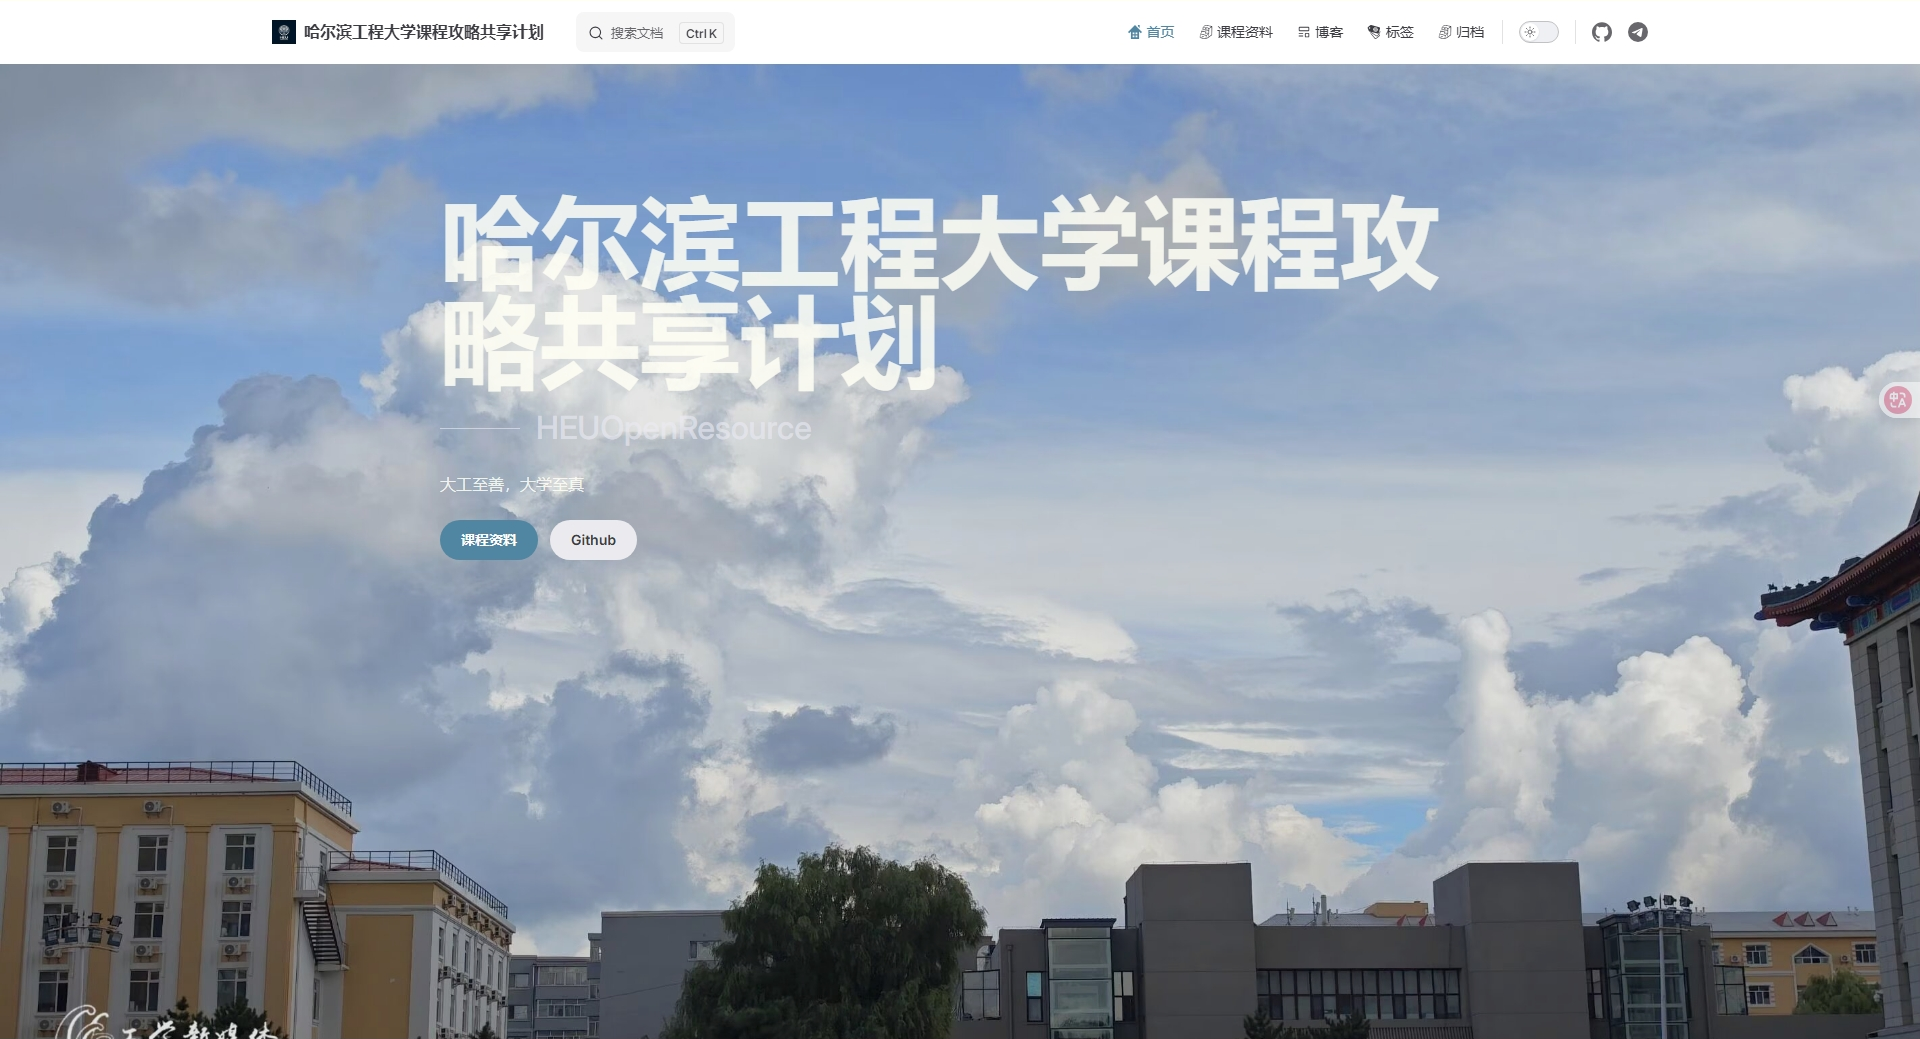
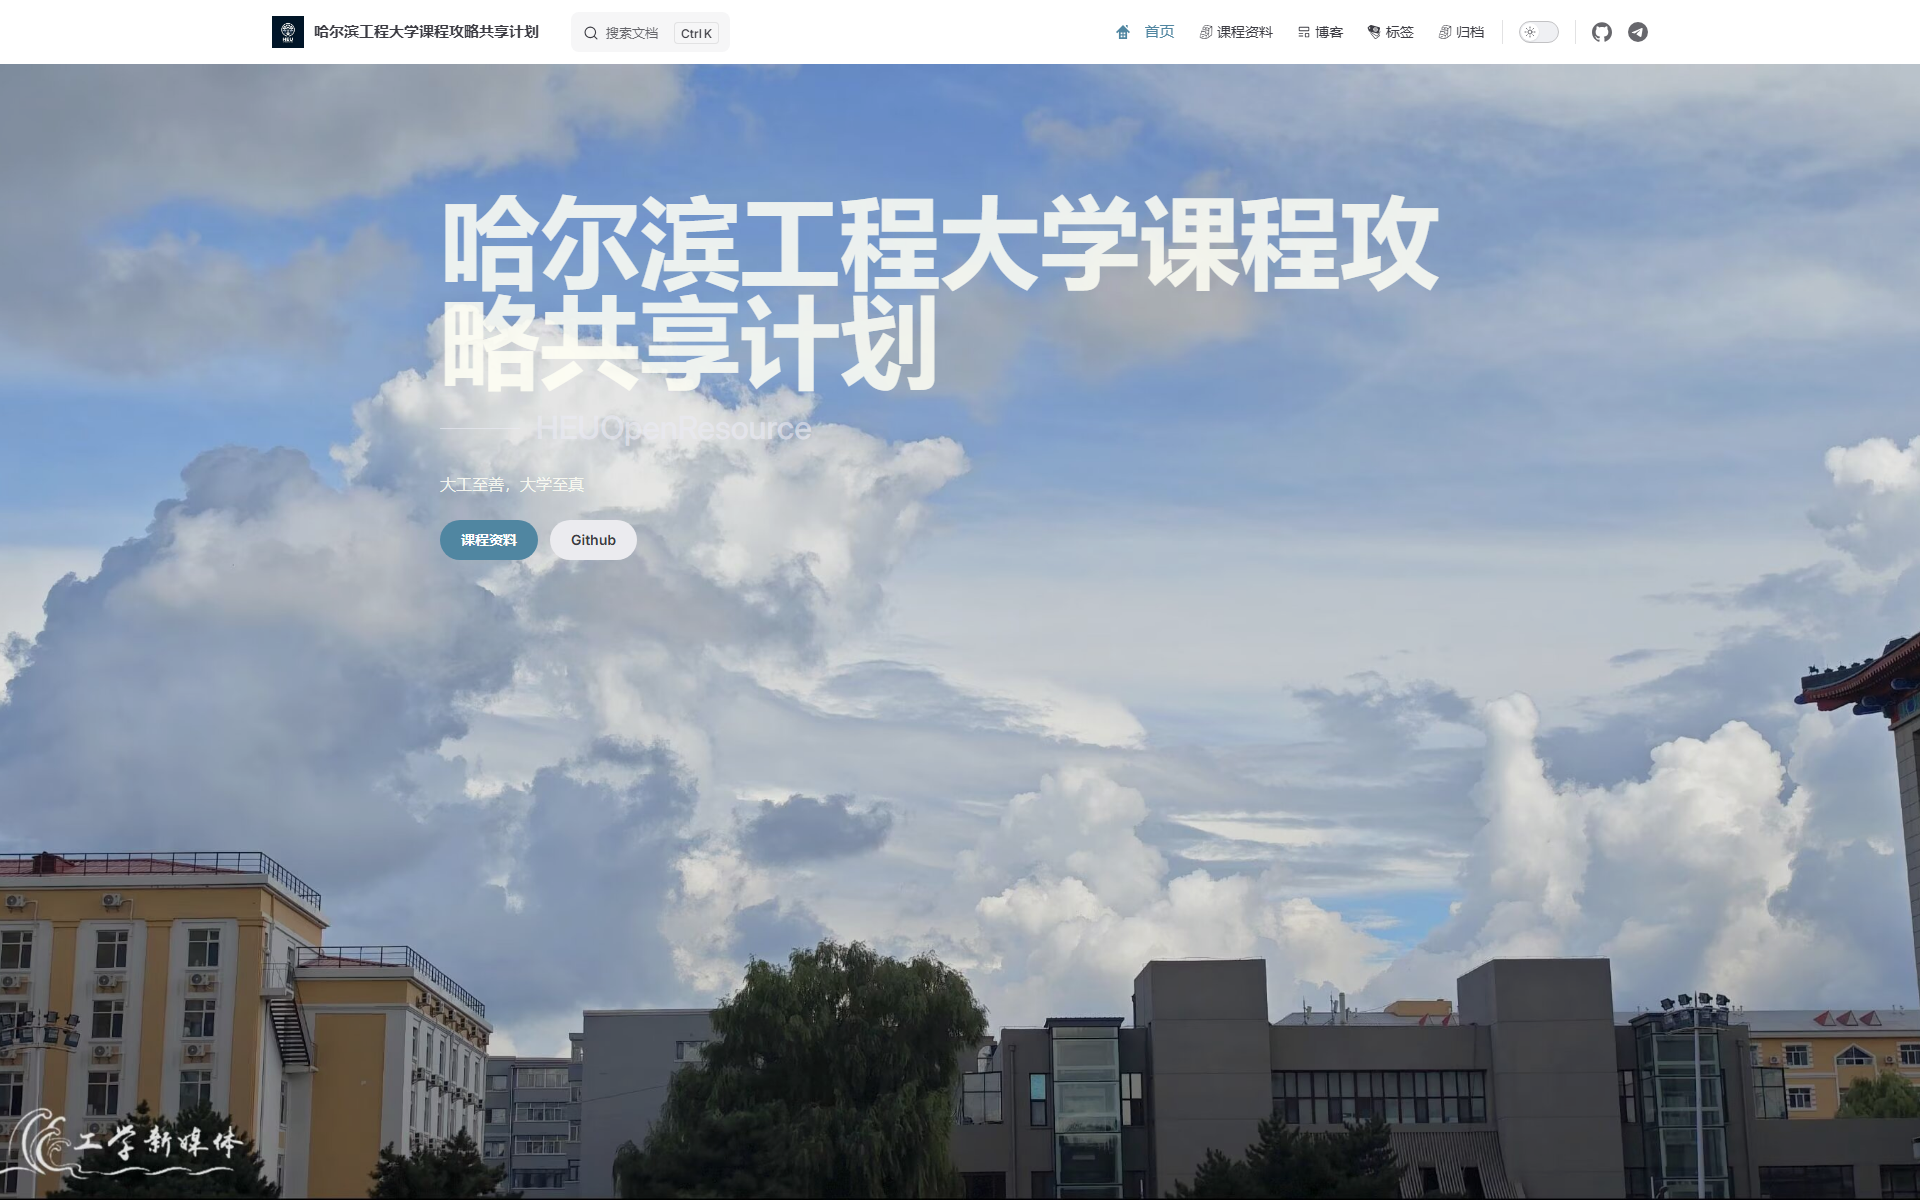
新增贡献者指南;更新网站预览图片

diff --git a/CONTRIBUTING.md b/CONTRIBUTING.md
@@ -1,0 +1,108 @@
+# 贡献指南
+
+## 概览
+
+
+- 资源列表下载页 位于 `docs/resource` 目录中进行开发维护,完整内容由项目根目录的三个py脚本生成。
+- 功能页面/博客  (~~暂时~~)位于 `docs/blog` 目录中进行开发维护,可以引入自定义组件，参考下面。
+
+
+## 开发配置
+
+开发要求（仅供参考）：
+
+[![Node.js](https://img.shields.io/badge/dynamic/json?url=https://raw.githubusercontent.com/HEUOpenResource/HEUOpenResource.github.io/main/package.json&query=$.engines.node&label=Node.js&color=339933&logo=node.js)](https://nodejs.org/)
+[![npm](https://img.shields.io/badge/npm%20%3E%3D%2011.7.0-CB3837?logo=npm)](https://www.npmjs.com/)
+
+>nodejs的安装教程自行搜索
+
+克隆代码仓库
+
+```sh
+git clone https://github.com/HEUOpenResource/HEUOpenResource.github.io.git
+```
+
+安装依赖：
+
+```sh
+npm i
+```
+
+由于前端课程资料页的科目导航列是调用Github API读取[资源仓库](https://github.com/HEUOpenResource/heu-icicles)来获取的，所以无论是在本地调试还是构建的时候都会调用这个 Github的API，为了避免速率限制，建议先去[申请](https://github.com/settings/tokens)一个Github的Token，并且在项目根目录新建一个`.env`文件,你可以这样：
+
+```sh
+cp  .env.example .env
+```
+然后把你的token填进去，最后得到的`.env`文件长这样式儿：
+
+```sh
+GITHUB_TOKEN="ghp_xxxxxxxxxxxxxxxxxxxxxxxxxxxxxxx"
+```
+
+
+### 本地调试
+
+可以直接执行
+
+```sh
+npm run docs:dev
+```
+### 生成网页
+
+构建源代码需要执行：
+
+```sh
+npm run docs:build
+```
+
+### 【本地】完整预览或构建网页
+
+> 首先得安装python，最新的版本应该就行（仓库自动化构建时使用的3.13版本），详细安装教程自行搜索
+
+此时需要拉取完整的资源仓库文件列表、贡献者，然后生成对应的markdown到对应的文件夹中，此时我们就需要像本仓库的workflow文件那样运行python脚本了：
+
+```yml
+      # 如果 update.py 依赖第三方库，取消注释此步
+      - name: 📦 安装 Python 依赖
+        run: pip install -r requirements.txt
+
+      # 执行项目根目录的 update.py
+      - name: 🛠 更新资料表以及正常贡献者
+        env:
+          GITHUB_TOKEN: ${{ secrets.GITHUB_TOKEN }}
+        run: python update.py
+
+      # 执行项目根目录的 addContributors.py（细分到每一个科目） 、allContributors.py（“介绍”页面中显示）
+      - name: 👥 添加非Github贡献者
+        env:
+          GITHUB_TOKEN: ${{ secrets.GITHUB_TOKEN }}
+        run: |
+          python addContributors.py
+          python allContributors.py
+```
+
+可以看到，当执行python脚本的时候也需要环境变量中含有GITHUB_TOKEN，为了方便开发调试，我们引入了python包：`python-dotenv`,在执行py脚本的时候也会自动读取项目根目录的.env文件中的环境变量，这和上面配置的.env是一样的，只需要配置一次即可。
+
+所以在执行py脚本之前不要忘了安装这个包，只需要执行：
+
+```sh
+pip install -r requirements.txt
+```
+
+然后执行脚本：
+
+```sh
+python update.py
+python addContributors.py
+python allContributors.py
+```
+
+执行完这些python脚本之后，再次本地调试或者预览即可。
+
+### 【在线】调试
+
+这个在线环境免登录即可查看
+[https://stackblitz.com/github/HEUOpenResource/HEUOpenResource.github.io](https://stackblitz.com/github/HEUOpenResource/HEUOpenResource.github.io)
+但是有时候不太方便，建议还是将代码拉取到本地进行调试
+
+

diff --git a/README.md b/README.md
@@ -7,3 +7,22 @@
 资源仓库：[https://github.com/HEUOpenResource/heu-icicles](https://github.com/HEUOpenResource/heu-icicles)
 
 ![https://heu.us.kg](./docs/.vuepress/public/intro.png)
+
+
+## 贡献指南
+
+本仓库使用的是[vuepress](https://vuejs.press/)框架的[plume主题](https://theme-plume.vuejs.press/)
+
+如果你会vue3框架，可以自己编写vue3组件给网站增加新功能~
+
+下面是该仓库的关键依赖及其版本：
+
+[![Node.js](https://img.shields.io/badge/dynamic/json?url=https://raw.githubusercontent.com/HEUOpenResource/HEUOpenResource.github.io/main/package.json&query=$.engines.node&label=Node.js&color=339933&logo=node.js)](https://nodejs.org/)
+[![Vue](https://img.shields.io/badge/dynamic/json?url=https://raw.githubusercontent.com/HEUOpenResource/HEUOpenResource.github.io/main/package.json&query=$.devDependencies.vue&label=Vue&color=4FC08D&logo=vue.js)](https://vuejs.org/)
+[![VuePress](https://img.shields.io/badge/dynamic/json?url=https://raw.githubusercontent.com/HEUOpenResource/HEUOpenResource.github.io/main/package.json&query=$.devDependencies.vuepress&label=VuePress&color=4FC08D&logo=vue.js)](https://vuejs.press/)
+[![VuePress Theme Plume](https://img.shields.io/badge/dynamic/json?url=https://raw.githubusercontent.com/HEUOpenResource/HEUOpenResource.github.io/main/package.json&query=$.devDependencies.vuepress-theme-plume&label=VuePress%20Theme%20Plume&color=4FC08D&logo=vue.js)](https://theme-plume.vuejs.press/)
+
+
+
+
+查看 [[贡献指南]](/CONTRIBUTING.md) 了解更多喵~
